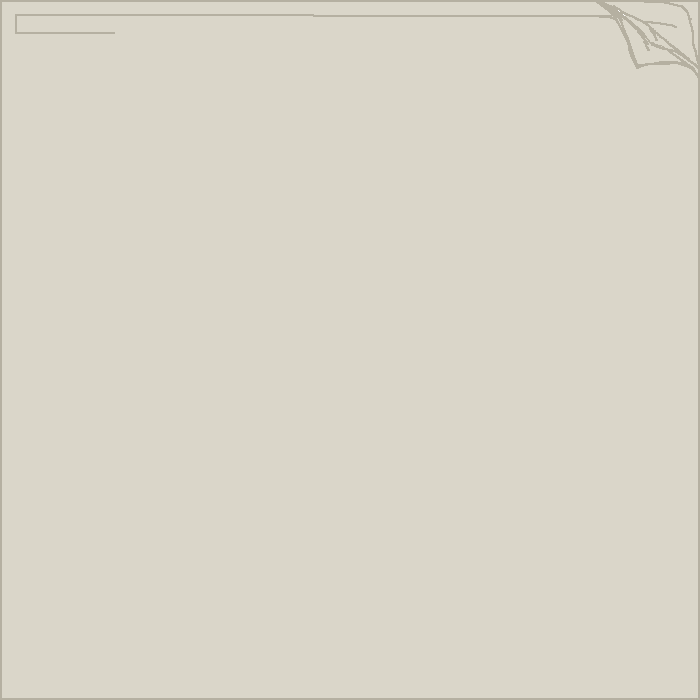
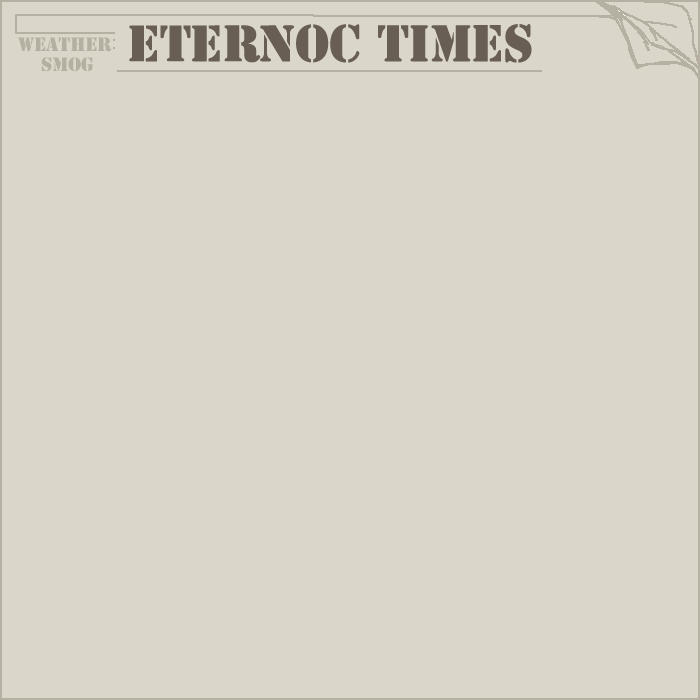
Visuals 1
Added pictures, Updated pictures, Fixed the leaking colors on the
displays
added BACKGROUND image to be used. Still needs a desk-like thing and
also a tackboard. and a backing for behind the ship

Changed region(s): [[0.18, 0.03, 0.51, 0.09], [0.54, 0.03, 0.78, 0.09], [0.03, 0.03, 0.15, 0.12]]

diff --git a/main.py b/main.py
@@ -90,6 +90,7 @@ achiveBox = getImg("achives/achiveBox")
 
 #Launch stuff
 launchpad = getImg("backgrounds/launchpad")
+backing = getImg("backgrounds/backing")
 #sounds
 explosion = pygame.mixer.Sound("Assets/soundfx/Explosion.wav")
 launch = pygame.mixer.Sound("Assets/soundfx/Launch.wav")
@@ -1214,9 +1215,9 @@ while running:
 		mouse_pos = pygame.mouse.get_pos()
 
 		gScreen.fill(WHITE)
-		
-		gScreen.blit(player.frame, [80, 120])
+		gScreen.blit(player.frame, (80, 120))
 		gScreen.blit(player.ship.img[0], player.ship.pos)
+		gScreen.blit(backing, (0, 0))
 
 		'''for i in range(len(theQuestion.prompt)):
 			gScreen.blit(font.render(theQuestion.prompt[i], True, BLACK), [200, 100 + i * 20])'''
@@ -1252,25 +1253,25 @@ while running:
 				y+= 1
 		
 		gScreen.blit(date, [10,10])
-		pygame.draw.rect(gScreen, YELLOW, [155 - 38, 60, 50, (player.money * -1) / 20])
+		pygame.draw.rect(gScreen, YELLOW, [155 - 38, 59, 50, (player.money * -1) / 20])
 		gScreen.blit(moneypic, [155 - 38, 10])
 		
-		pygame.draw.rect(gScreen, GREEN, [233 - 38, 60, 50, ((player.progress/player.full) * -100) / 2])
+		pygame.draw.rect(gScreen, GREEN, [233 - 38, 59, 50, ((player.progress/player.full) * -100) / 2])
 		gScreen.blit(progresspic, [233 - 38, 10])
 		
-		pygame.draw.rect(gScreen, RED, [311 - 38, 60, 50, (player.failChance * -1) / 2])
+		pygame.draw.rect(gScreen, RED, [311 - 38, 59, 50, ((player.failChance * -1) / 2)+2])
 		gScreen.blit(failurepic, [311 - 38, 10])
 		
-		pygame.draw.rect(gScreen, BLUE, [388 - 38, 60, 50, (player.scientists * -1)])
+		pygame.draw.rect(gScreen, BLUE, [388 - 38, 59, 50, (player.scientists * -1)])
 		gScreen.blit(sciencepic, [388 - 38, 10])
 		
-		pygame.draw.rect(gScreen, GREY, [466 -38, 60, 50, (player.engineers * -1)])
+		pygame.draw.rect(gScreen, GREY, [466 -38, 59, 50, (player.engineers * -1)])
 		gScreen.blit(engiespic, [466 -38, 10])
 		
-		pygame.draw.rect(gScreen, PURPLE, [544 - 38, 60, 50, (player.maths * -1)])
+		pygame.draw.rect(gScreen, PURPLE, [544 - 38, 59, 50, (player.maths * -1)])
 		gScreen.blit(mathspic, [544 - 38, 10])
 		
-		pygame.draw.rect(gScreen, TEAL, [622 - 38, 60, 50, (player.campaigners * -1)])
+		pygame.draw.rect(gScreen, TEAL, [622 - 38, 59, 50, (player.campaigners * -1)])
 		gScreen.blit(campainerspic, [622 - 38, 10])
 
 		gScreen.blit(font.render(str(player.money)+"K",True,BLACK), [155 - 38, 60])
